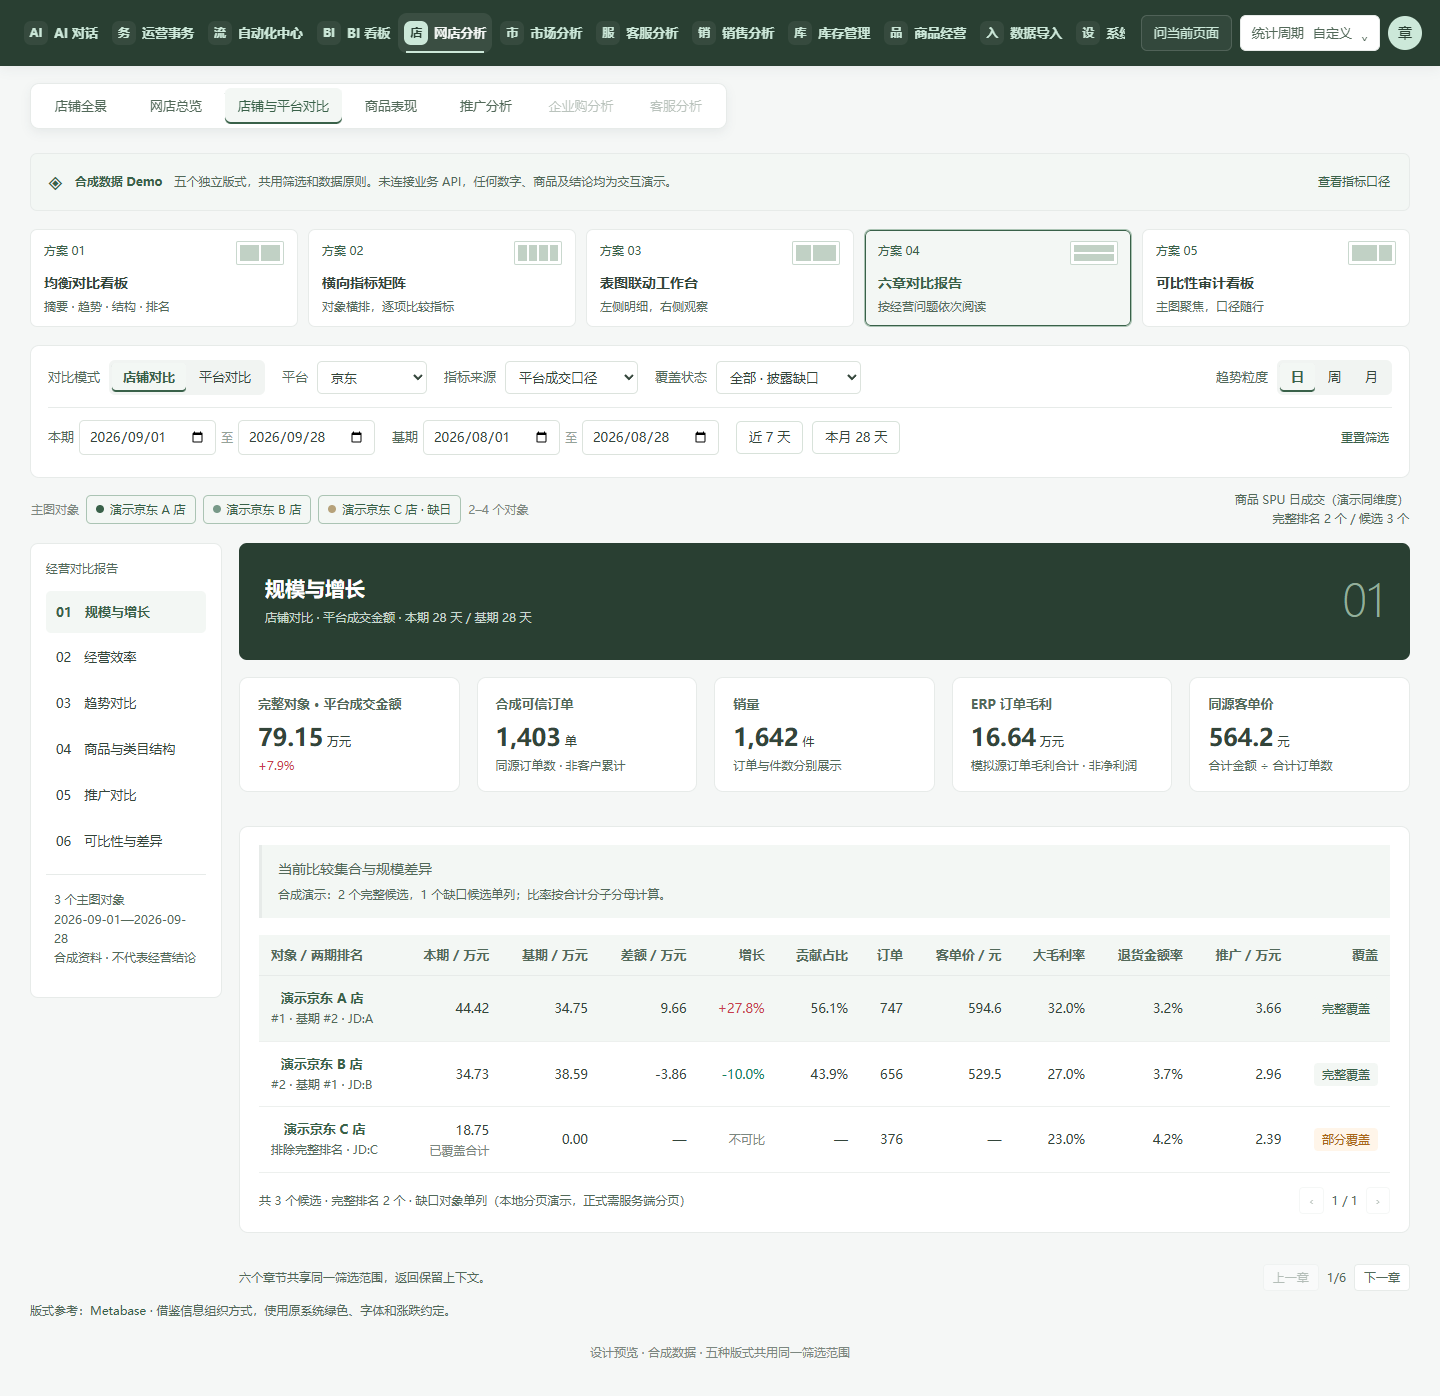
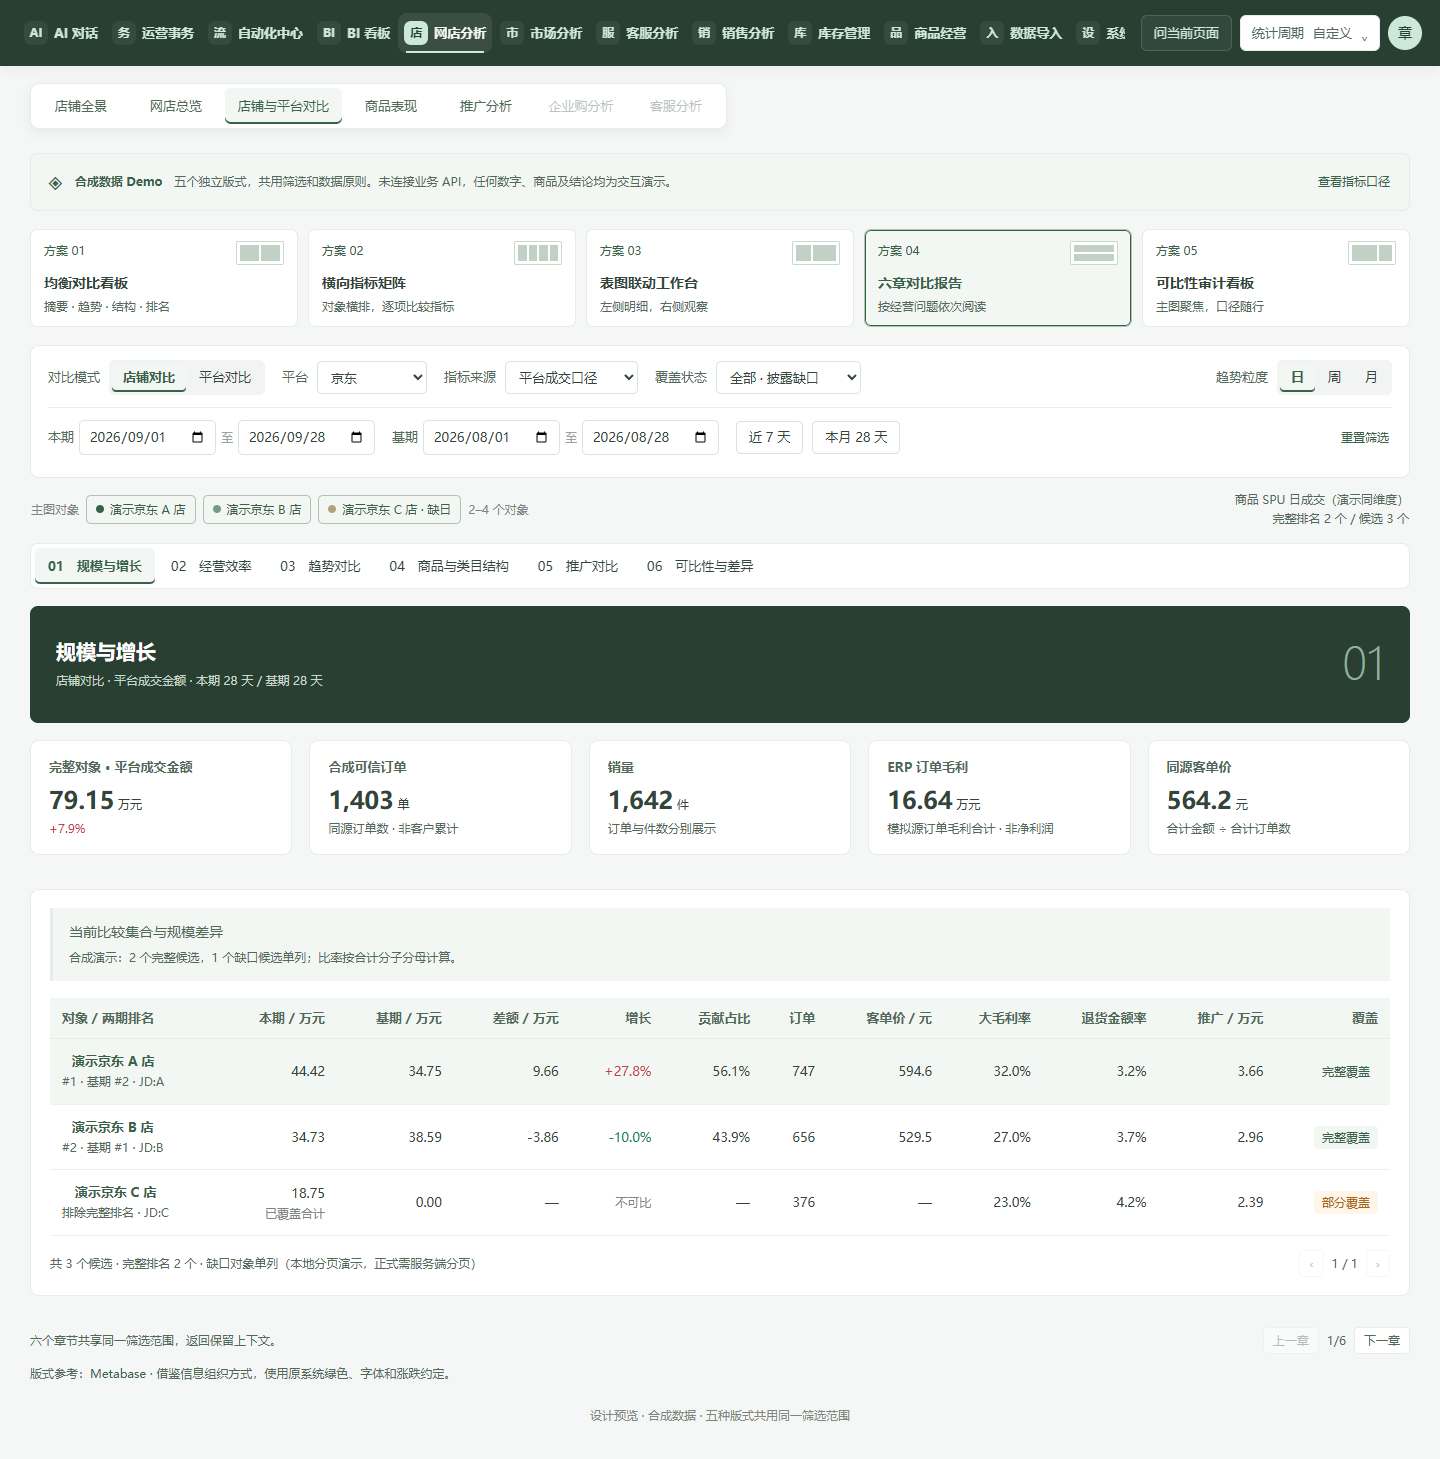
style(netshop): keep report chapters above content and clear sticky headers

diff --git a/app/netshop/comparison/demo/system-frame.css b/app/netshop/comparison/demo/system-frame.css
@@ -13,6 +13,7 @@
   --blue:var(--color-info);
   --purple:var(--color-purple);
   --demo-masthead-height:60px;
+  --demo-subnav-height:46px;
   font-family:Inter,"SF Pro Display","PingFang SC","Microsoft YaHei",system-ui,sans-serif;
   font-size:var(--font-size-body);
   line-height:var(--line-height-body);
@@ -63,6 +64,11 @@ thead th,.selected-row td,.heat-cell,.matrix-group td { background:var(--color-b
 .system-subnav button.active { color:var(--color-brand); background:var(--color-brand-soft); box-shadow:inset 0 -2px var(--color-brand); }
 .system-subnav button:hover:not(:disabled) { color:var(--color-brand); background:var(--color-brand-soft); }
 .system-menu-button { display:none; }
+.report-shell { grid-template-columns:minmax(0,1fr); }
+.chapter-nav { position:sticky; top:calc(var(--demo-masthead-height) + var(--demo-subnav-height) + 8px); z-index:20; display:flex; align-items:center; gap:3px; width:100%; padding:4px; overflow-x:auto; flex-wrap:nowrap; background:var(--color-bg-surface); }
+.chapter-nav p,.chapter-nav small { display:none; }
+.chapter-nav button { flex:0 0 auto; width:auto; min-height:36px; margin:0; padding:0 13px; font-size:var(--font-size-label); white-space:nowrap; }
+.chapter-nav button.active { box-shadow:inset 0 -2px var(--color-brand); }
 .system-visually-hidden { position:absolute; width:1px; height:1px; padding:0; margin:-1px; overflow:hidden; clip-path:inset(50%); white-space:nowrap; }
 .drawer-backdrop { z-index:80; }
 .drawer { z-index:81; }
@@ -79,4 +85,5 @@ thead th,.selected-row td,.heat-cell,.matrix-group td { background:var(--color-b
   .system-period { padding:0 8px; gap:6px; font-size:var(--font-size-caption); }
   .system-subnav { max-width:calc(100% - 26px); margin:17px 13px 0; }
   main { padding:17px 13px 26px; }
+  .chapter-nav { position:static; top:auto; }
 }

diff --git a/app/netshop/comparison/demo/demo.js b/app/netshop/comparison/demo/demo.js
@@ -365,8 +365,9 @@
   document.addEventListener('pointerout',event=>{if(event.target.closest('[data-tip]'))event.target.closest('.chart-wrap')?.querySelector('.chart-tooltip')?.remove();});
   window.comparisonDemo=Object.freeze({setState,snapshot,openDetail,closeDetail,designs:DESIGNS.map(({id,name,title})=>({id,name,title})),fixtures:SHOPS.map(({id,platform,name})=>({id,platform,name})),reset:()=>setState({...DEFAULT,selectedIds:[...DEFAULT.selectedIds],expanded:[]})});
   const masthead=document.querySelector('.system-masthead');
-  const syncShell=()=>document.documentElement.style.setProperty('--demo-masthead-height',masthead.getBoundingClientRect().height+'px');
-  new ResizeObserver(syncShell).observe(masthead);
+  const subnav=document.querySelector('.system-subnav');
+  const syncShell=()=>{document.documentElement.style.setProperty('--demo-masthead-height',masthead.getBoundingClientRect().height+'px');document.documentElement.style.setProperty('--demo-subnav-height',subnav.getBoundingClientRect().height+'px');};
+  const shellObserver=new ResizeObserver(syncShell);shellObserver.observe(masthead);shellObserver.observe(subnav);
   syncShell();
   render();
 })();
